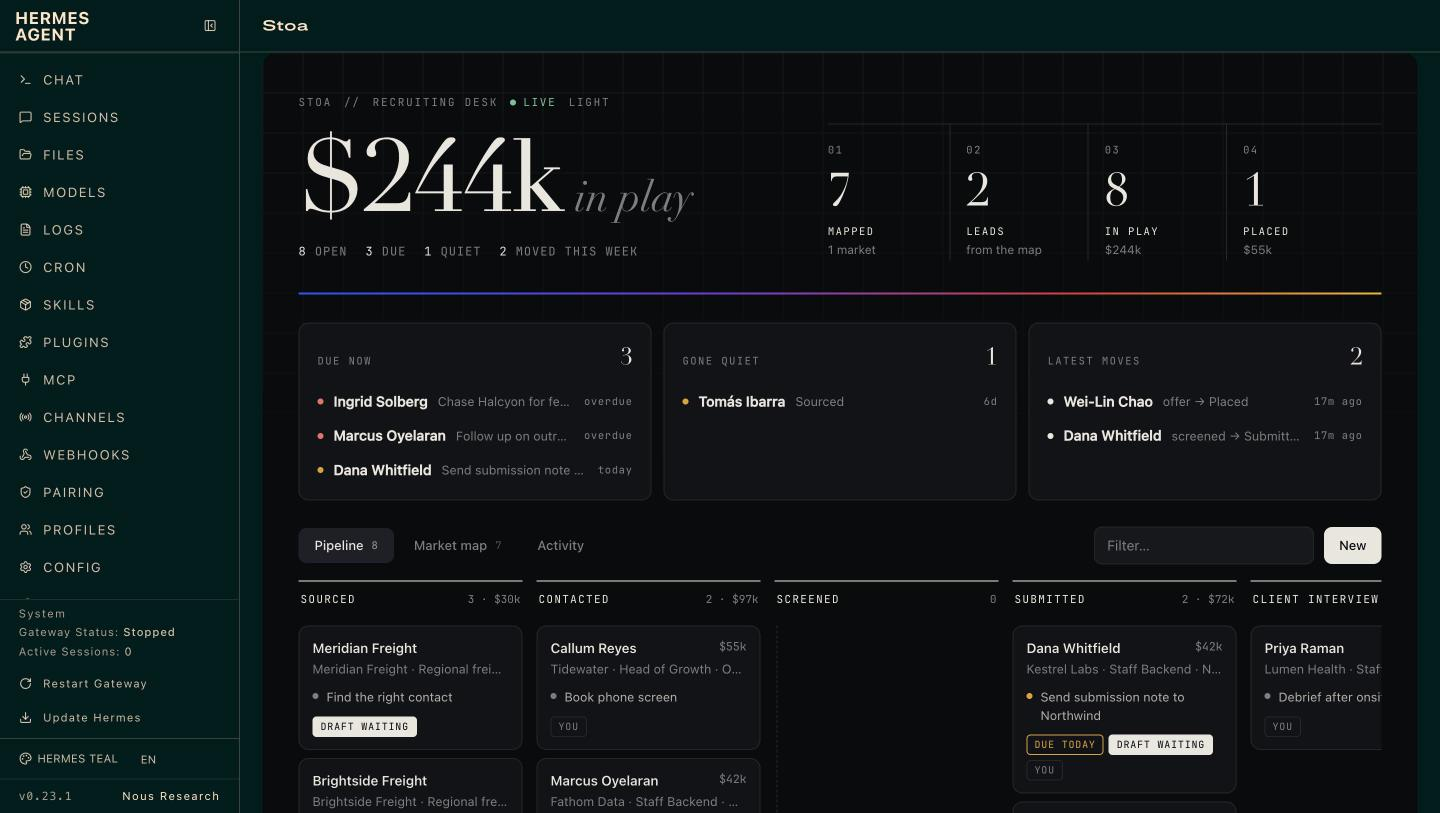
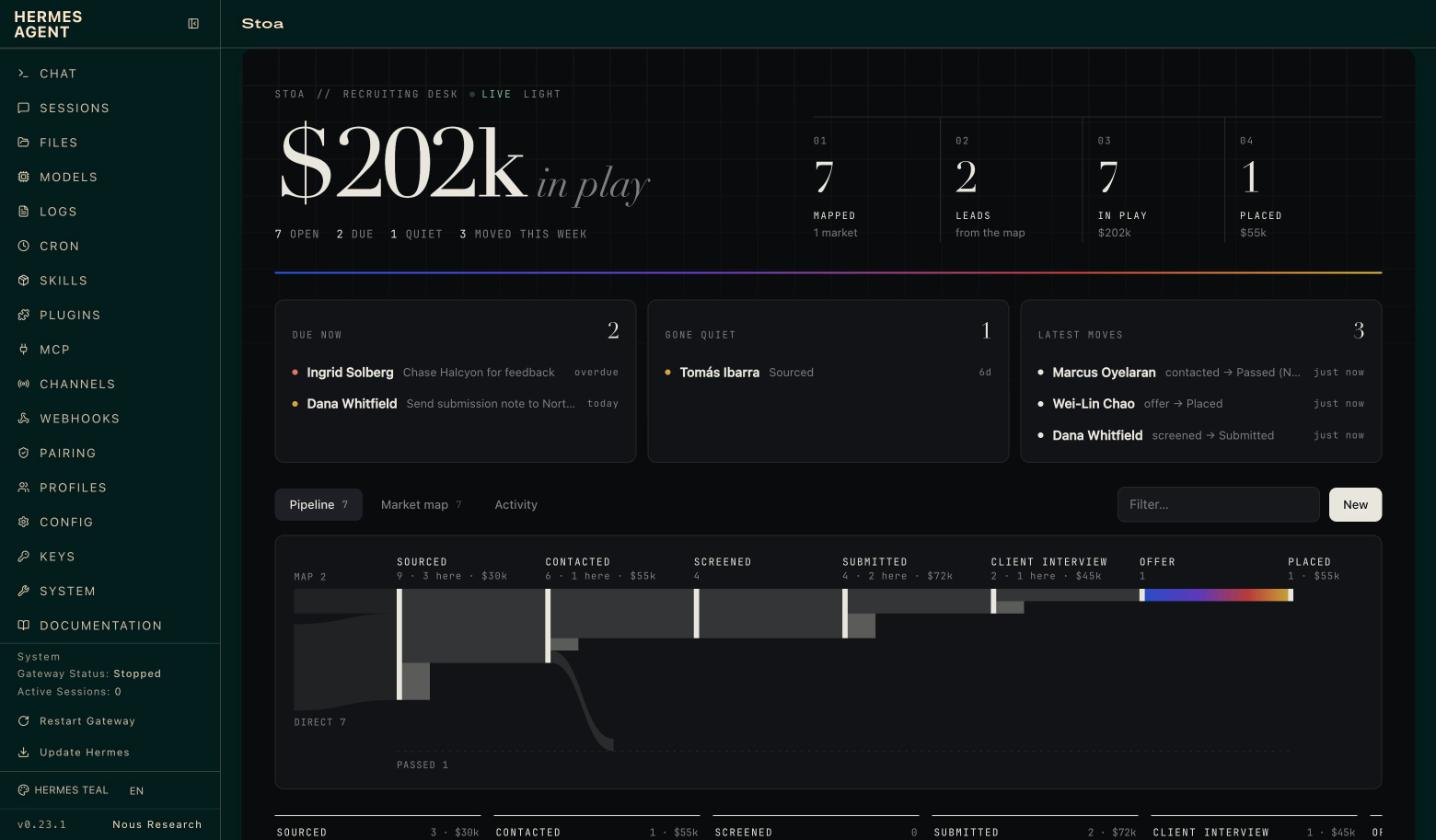
Stoa 0.3.2: a Sankey flow diagram in the pipeline view

diff --git a/dashboard/dist/index.js b/dashboard/dist/index.js
@@ -113,6 +113,48 @@
         }, "No moves yet.")));
   }
 
+  // -- flow (Sankey) ---------------------------------------------------------------------------
+  function ribbon(x0, y0, x1, y1, h0, h1) {
+    var m = (x0 + x1) / 2;
+    return "M" + x0 + "," + y0 + " C" + m + "," + y0 + " " + m + "," + y1 + " " + x1 + "," + y1 +
+      " L" + x1 + "," + (y1 + h1) + " C" + m + "," + (y1 + h1) + " " + m + "," + (y0 + h0) + " " + x0 + "," + (y0 + h0) + " Z";
+  }
+  function Flow(props) {
+    var f = props.state.flow, cur = props.state.playbook.currency;
+    if (!f || !f.total) return null;
+    var st = f.stages, n = st.length, W = 1000, top = 34, main = 104, rail = 186, H = 214, bar = 5;
+    var u = main / f.total, x = function (i) { return 96 + i * ((W - 96 - 70) / n); };
+    var parts = [];
+    // where records come from
+    var mapH = f.from_map * u, dirH = (f.total - f.from_map) * u;
+    if (f.from_map) parts.push(h("path", { key: "sm", className: "stoa-flow-in", d: ribbon(0, top, x(0), top, mapH, mapH) }));
+    if (f.total - f.from_map) parts.push(h("path", { key: "sd", className: "stoa-flow-in", d: ribbon(0, top + mapH + (f.from_map ? 10 : 0), x(0), top + mapH, dirH, dirH) }));
+    if (f.from_map) parts.push(h("text", { key: "tm", className: "stoa-flow-src", x: 0, y: top - 8 }, "MAP " + f.from_map));
+    if (f.total - f.from_map) parts.push(h("text", { key: "td", className: "stoa-flow-src", x: 0, y: top + mapH + dirH + (f.from_map ? 10 : 0) + 14 }, "DIRECT " + (f.total - f.from_map)));
+    st.forEach(function (s, i) {
+      var hgt = s.reached * u, onward = (i + 1 < n ? st[i + 1].reached : f.won) * u, stay = s.here * u, drop = s.lost * u;
+      var nx = i + 1 < n ? x(i + 1) : W - 70 + 0;
+      if (onward > 0) parts.push(h("path", { key: "o" + i, className: i + 1 < n ? "stoa-flow-on" : "stoa-flow-won", d: ribbon(x(i) + bar, top, nx, top, onward, onward) }));
+      if (stay > 0) parts.push(h("rect", { key: "h" + i, className: "stoa-flow-here", x: x(i) + bar, y: top + onward, width: 26, height: stay }));
+      if (drop > 0) parts.push(h("path", { key: "l" + i, className: "stoa-flow-lost", d: ribbon(x(i) + bar, top + onward + stay, x(i) + 64, rail - drop, drop, drop) }));
+      parts.push(h("rect", { key: "n" + i, className: "stoa-flow-node", x: x(i), y: top, width: bar, height: Math.max(hgt, 1) }));
+      parts.push(h("text", { key: "t" + i, className: "stoa-flow-label", x: x(i), y: 12 }, s.label.toUpperCase()));
+      parts.push(h("text", { key: "c" + i, className: "stoa-flow-count", x: x(i), y: 25 }, s.reached + (s.here ? "  ·  " + s.here + " here" : "") + (s.value ? "  ·  " + money(s.value, cur) : "")));
+    });
+    var wonH = Math.max(f.won * u, 1);
+    parts.push(h("rect", { key: "w", className: "stoa-flow-end", x: W - 70, y: top, width: bar, height: wonH }));
+    parts.push(h("text", { key: "wl", className: "stoa-flow-label", x: W - 70, y: 12 }, f.won_label.toUpperCase()));
+    parts.push(h("text", { key: "wc", className: "stoa-flow-count", x: W - 70, y: 25 }, f.won + (f.won_value ? "  ·  " + money(f.won_value, cur) : "")));
+    parts.push(h("line", { key: "r", className: "stoa-flow-rail", x1: x(0), x2: W - 70 + bar, y1: rail, y2: rail }));
+    parts.push(h("text", { key: "rl", className: "stoa-flow-src", x: x(0), y: rail + 16 }, f.lost_label.toUpperCase() + " " + f.lost));
+    return h("div", { className: "stoa-flowwrap" },
+      h("svg", { className: "stoa-flow", viewBox: "0 0 " + W + " " + H, role: "img", "aria-label": "How records flow through the stages" },
+        h("defs", null, h("linearGradient", { id: "stoa-spec", x1: "0", y1: "0", x2: "1", y2: "0" },
+          h("stop", { offset: "0", stopColor: "#2f56e8" }), h("stop", { offset: "0.38", stopColor: "#6a3fd6" }),
+          h("stop", { offset: "0.72", stopColor: "#d6413f" }), h("stop", { offset: "1", stopColor: "#e6b93a" }))),
+        parts));
+  }
+
   // -- pipeline board ---------------------------------------------------------------------------
   function DealCard(props) {
     var d = props.deal, cur = props.currency;
@@ -140,6 +182,7 @@
         h("p", null, "Tell Hermes about a " + s.playbook.terms.deal + ", or try ", h("code", null, "hermes stoa demo"), "."));
     }
     return h("div", null,
+      h(Flow, { state: s }),
       h("div", { className: "stoa-board" }, s.playbook.stages.map(function (stage) {
         var here = open.filter(function (d) { return d.stage === stage.id; });
         var value = here.reduce(function (a, d) { return a + (d.value || 0); }, 0);

diff --git a/dashboard/dist/style.css b/dashboard/dist/style.css
@@ -115,6 +115,21 @@
 .stoa-btn[data-kind="ghost"]:hover { color: var(--st-ink); border-color: transparent; background: var(--st-wash); }
 .stoa-btn[disabled] { opacity: 0.4; pointer-events: none; }
 
+/* flow: a Sankey of how far records get */
+.stoa-flowwrap { margin: 2px 0 26px; padding: 18px 20px 8px; background: var(--st-card); border: 1px solid var(--st-line); border-radius: 10px; }
+.stoa-flow { width: 100%; height: auto; display: block; overflow: visible; }
+.stoa-flow path, .stoa-flow rect { transition: d 0.6s ease, height 0.6s ease, y 0.6s ease; }
+.stoa-flow-on { fill: var(--st-ink); opacity: 0.16; }
+.stoa-flow-in { fill: var(--st-ink); opacity: 0.07; }
+.stoa-flow-won { fill: url(#stoa-spec); opacity: 0.85; }
+.stoa-flow-here { fill: var(--st-ink); opacity: 0.34; }
+.stoa-flow-lost { fill: var(--st-mute); opacity: 0.22; }
+.stoa-flow-node, .stoa-flow-end { fill: var(--st-ink); }
+.stoa-flow-rail { stroke: var(--st-line); stroke-width: 1; stroke-dasharray: 2 5; }
+.stoa-flow text { font-family: var(--st-mono); }
+.stoa-flow-label { font-size: 9.5px; letter-spacing: 0.12em; fill: var(--st-ink); }
+.stoa-flow-count, .stoa-flow-src { font-size: 9px; letter-spacing: 0.08em; fill: var(--st-mute); }
+
 /* board: every stage is a column, with a capital */
 .stoa-board { display: grid; grid-auto-flow: column; grid-auto-columns: minmax(224px, 1fr); gap: 14px; overflow-x: auto; padding: 2px 0 14px; }
 .stoa-col { display: flex; flex-direction: column; gap: 8px; min-height: 280px; }

diff --git a/desk.py b/desk.py
@@ -218,6 +218,42 @@ class Desk:
             "notes_waiting": len(notes.get("notes") or []),
         }
 
+    def flow(self) -> dict:
+        """How records have moved through the playbook, for a Sankey diagram.
+
+        A record is counted as having reached every stage up to the furthest one it got to: its
+        current stage if open, every stage if won, the stage it was closed from if lost.
+        """
+        playbook = self.playbook()
+        stages = playbook.stages
+        count = len(stages)
+        reached, here, lost = [0] * count, [0] * count, [0] * count
+        value = [0.0] * count
+        won = from_map = 0
+        won_value = 0.0
+        for deal in self.store.list(status="all"):
+            if deal["status"] == "open":
+                far = playbook.position(deal["stage"])
+                if far < 0:
+                    continue
+                here[far] += 1
+                value[far] += deal["value"]
+            elif deal["status"] == "won":
+                far = count - 1
+                won += 1
+                won_value += deal["value"]
+            else:
+                far = max(0, playbook.position(str(deal["fields"].get("_prev_stage") or "")))
+                lost[far] += 1
+            if deal["source"].startswith("market map"):
+                from_map += 1
+            for index in range(far + 1):
+                reached[index] += 1
+        return {"stages": [{"id": s["id"], "label": s["label"], "reached": reached[i], "here": here[i], "lost": lost[i],
+                            "value": value[i]} for i, s in enumerate(stages)],
+                "won": won, "won_value": won_value, "won_label": playbook.won["label"], "lost": sum(lost),
+                "lost_label": playbook.lost["label"], "from_map": from_map, "total": reached[0] if reached else 0}
+
     # -- gtm_deal -------------------------------------------------------------------------------
     def deal(self, args: dict) -> dict:
         action = str(args.get("action") or "get").lower()

diff --git a/tests/test_stoa.py b/tests/test_stoa.py
@@ -239,6 +239,20 @@ class DeskTests(unittest.TestCase):
         result = self.desk.click("advance", deal["id"], "offer", "jo")
         self.assertEqual((result["deal"]["stage"], result["deal"]["status"]), ("placed", "won"))
 
+    def test_flow_counts_how_far_each_record_got(self):
+        demo.load(self.desk)
+        self.desk.deal({"action": "close", "deal": "Wei-Lin Chao", "outcome": "won"})
+        self.desk.deal({"action": "close", "deal": "Ingrid Solberg", "outcome": "lost", "reason": "Client passed"})
+        self.desk.market({"action": "track", "targets": ["Brightside Freight"]})
+        flow = self.desk.flow()
+        self.assertEqual([s["reached"] for s in flow["stages"]], [8, 6, 4, 3, 2, 1])
+        self.assertEqual([s["here"] for s in flow["stages"]], [2, 2, 1, 0, 1, 0])
+        self.assertEqual([s["lost"] for s in flow["stages"]], [0, 0, 0, 1, 0, 0])
+        self.assertEqual((flow["won"], flow["lost"], flow["from_map"], flow["total"]), (1, 1, 1, 8))
+        for i, stage in enumerate(flow["stages"]):  # what arrives either stays, is lost, or moves on
+            onward = flow["stages"][i + 1]["reached"] if i + 1 < len(flow["stages"]) else flow["won"]
+            self.assertEqual(stage["reached"], stage["here"] + stage["lost"] + onward)
+
     def test_switching_playbooks_keeps_records(self):
         self.add()
         result = self.desk.playbook_tool({"action": "use", "name": "b2b-sales"})
@@ -587,6 +601,7 @@ class DashboardApiTests(unittest.TestCase):
         dana = [d for d in state["deals"] if d["name"] == "Dana Whitfield"][0]
         self.assertEqual((dana["position"], dana["advance"], dana["pending"]), (2, "Submit to client", False))
         self.assertTrue(state["activity"])
+        self.assertEqual(state["flow"]["total"], 7)
 
     def test_advance_parks_the_draft_and_is_idempotent(self):
         dana = self.desk.store.find("Dana Whitfield")

diff --git a/dashboard/plugin_api.py b/dashboard/plugin_api.py
@@ -111,6 +111,7 @@ def state() -> dict:
         "deals": [_card(d, deal, playbook) for deal in deals],
         "markets": markets,
         "activity": activity,
+        "flow": d.flow(),
         "totals": {"open": len(open_deals), "open_value": sum(x["value"] for x in open_deals),
                    "won": len([x for x in deals if x["status"] == "won"]),
                    "won_value": sum(x["value"] for x in deals if x["status"] == "won"),

diff --git a/README.md b/README.md
@@ -42,6 +42,8 @@ taps a button in Slack you watch the card move.
 
 - **The number that matters, live:** what is in play, beside mapped → leads → in play → won,
   with what is due and what has gone quiet underneath.
+- **Flow:** a Sankey diagram of how far records get: what moves on, what sits in each stage,
+  what is lost and where, and what is won.
 - **Pipeline board:** a column per playbook stage. Open a card to see its log, set the next
   step, log a call, advance it, close it with a reason, or snooze it.
 - **Market map:** every segment as a cluster, each company sized by fit and filled in once it
@@ -271,7 +273,7 @@ What the plugin does that you would want to know before installing it:
 Standard library only. The desk logic has no Hermes imports, so the tests run anywhere:
 
 ```
-python3 -m unittest discover -s tests     # 63 tests, no network
+python3 -m unittest discover -s tests     # 64 tests, no network
 hermes plugins validate . --install-deps
 hermes plugins doctor . --ci
 ```
